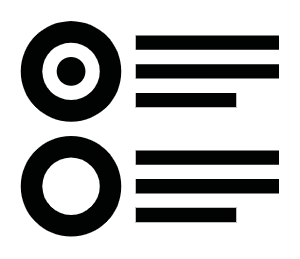
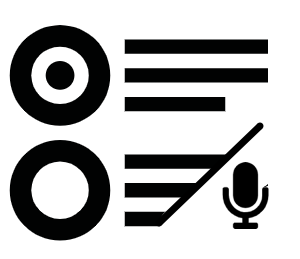
better multiaudio

Changed region(s): [[0.03, 0.4633, 0.93, 0.9575], [0.03, 0.0618, 0.93, 0.4942]]

diff --git a/amd/src/multiaudio.js b/amd/src/multiaudio.js
@@ -57,8 +57,13 @@ define(['jquery', 'core/log', 'mod_minilesson/definitions', 'mod_minilesson/poll
               theplayer.attr('src', $(this).attr('data-src'));
               theplayer[0].play();
               theplayer[0].onended = function() {
+                  $(el).find(".minilesson_mc_playstate").removeClass("fa-spin fa-spinner").addClass("fa-play");
                   self.playing = false;
               };
+              $(el).find(".minilesson_mc_playstate").removeClass("fa-play").addClass("fa-spin fa-spinner");
+          }else{
+              theplayer[0].pause();
+              theplayer[0].currentTime=0;
           }
 
           //get selected item index
@@ -71,7 +76,7 @@ define(['jquery', 'core/log', 'mod_minilesson/definitions', 'mod_minilesson/poll
     prepare_audio: function(itemdata) {
          // debugger;
           $.each(itemdata.sentences, function(index, sentence) {
-              polly.fetch_polly_url(sentence.displaysentence, itemdata.voiceoption, itemdata.usevoice).then(function(audiourl) {
+              polly.fetch_polly_url(sentence.sentence, itemdata.voiceoption, itemdata.usevoice).then(function(audiourl) {
                   $("#" + itemdata.uniqueid + "_option" + (index+1)).attr("data-src", audiourl);
               });
           });
@@ -81,6 +86,17 @@ define(['jquery', 'core/log', 'mod_minilesson/definitions', 'mod_minilesson/poll
 
         //disable the answers, cos its answered
         $("#" + itemdata.uniqueid + "_container .minilesson_mc_response").addClass('minilesson_mc_disabled');
+
+        //remove any audio player artifacts
+        $("#" + itemdata.uniqueid + "_container .minilesson_mc_playstate").hide();
+
+        //turn dots into text (if they were dots)
+        if(parseInt(itemdata.show_text)==0) {
+            for (var i = 0; i < itemdata.sentences.length; i++) {
+                var theline = $("#" + itemdata.uniqueid + "_option" + (i + 1));
+                $("#" + itemdata.uniqueid + "_option" + (i + 1) + ' .minilesson_sentence').text(itemdata.sentences[i].sentence);
+            }
+        }
 
         //reveal answers
         $("#" + itemdata.uniqueid + "_container .minilesson_mc_wrong").show();
@@ -99,16 +115,15 @@ define(['jquery', 'core/log', 'mod_minilesson/definitions', 'mod_minilesson/poll
 
     init_components: function(index, itemdata, quizhelper) {
         var app= this;
-        var correcttext = $("#" + itemdata.uniqueid + "_option" + itemdata.correctanswer).text();
-        var allresponses = $("#" + itemdata.uniqueid + "_container .minilesson_mc_response");
+        var correcttext = itemdata.sentences[itemdata.correctanswer-1].sentence;
         var cleanincorrecttexts=[];
-        for(var i=0;i<allresponses.length;i++){
+        for(var i=0;i<itemdata.sentences.length;i++){
             if(i+1==itemdata.correctanswer) {
                 //to make life simple for ourselves we add an empty string entry in incorrecttexts at the correct answer index
                 //NB index of item in DOM is 1 based , so we need to mess with +1's
                 cleanincorrecttexts[i]='';
             }else{
-                cleanincorrecttexts[i]=quizhelper.cleanText(allresponses[i].textContent);
+                cleanincorrecttexts[i]=quizhelper.cleanText(itemdata.sentences[i].sentence);
             }
         }
 

diff --git a/styles.css b/styles.css
@@ -1811,5 +1811,9 @@ div.mod_minilesson_feedback_cont.mod_minilesson_postattempt {
   color: red;
   float: right;
 }
+.minilesson_mc_playstate {
+  color: grey;
+  float: right;
+}
 
 

diff --git a/classes/comprehensiontest.php b/classes/comprehensiontest.php
@@ -232,13 +232,23 @@ class comprehensiontest
                         if (empty($sentence)) {
                             continue;
                         }
-                        //if we have a pipe we are listening for array[0] and displaying array[1]
-                        $sentencebits = explode('|', $sentence);
-                        if (count($sentencebits) > 1) {
-                            $sentence = trim($sentencebits[0]);
-                            $displaysentence = trim($sentencebits[1]);
-                        } else {
-                            $displaysentence = $sentence;
+
+
+                        if($testitem->type==constants::TYPE_MULTIAUDIO){
+                            if($item->{constants::SHOWTEXTPROMPT}==constants::TEXTPROMPT_DOTS){
+                                $displaysentence = $this->dottify_text($sentence);
+                            }else{
+                                $displaysentence = $sentence;
+                            }
+                        }else{
+                            //if we have a pipe we are listening for array[0] and displaying array[1]
+                            $sentencebits = explode('|', $sentence);
+                            if (count($sentencebits) > 1) {
+                                $sentence = trim($sentencebits[0]);
+                                $displaysentence = trim($sentencebits[1]);
+                            } else {
+                                $displaysentence = $sentence;
+                            }
                         }
 
                         //If this is Japanese and a'chat' activity, the display sentence will be read as is
@@ -254,6 +264,7 @@ class comprehensiontest
 
                         $s = new \stdClass();
                         $s->index = $index;
+                        $s->indexplusone = $index + 1;
                         $s->sentence = $sentence;
                         $s->displaysentence = $displaysentence;
                         $s->length = strlen($s->sentence);
@@ -312,6 +323,14 @@ class comprehensiontest
         }
 
         return $testitems;
+    }
+
+    public function dottify_text($rawtext){
+        $re = '/[^\'!"#$%&\\\\\'()\*+,\-\.\/:;<=> ?@\[\\\\\]\^_`{|}~\']/u';
+        $subst = '•';
+
+        $dots = preg_replace($re, $subst, $rawtext);
+        return $dots;
     }
 
     /* called from ajaxhelper to grade test */

diff --git a/classes/local/rsquestion/baseform.php b/classes/local/rsquestion/baseform.php
@@ -250,14 +250,17 @@ abstract class baseform extends \moodleform {
                 $additionalfields, "add", true);
     }
 
-    protected final function add_showtextpromptoptions($name, $label = null) {
+    protected final function add_showtextpromptoptions($name, $label = null, $default=constants::TEXTPROMPT_DOTS) {
         $options = utils::fetch_options_textprompt();
-        return $this->add_dropdown($name,$label,$options);
+        return $this->add_dropdown($name,$label,$options,$default);
     }
 
-    protected final function add_dropdown($name, $label = null,$options) {
+    protected final function add_dropdown($name, $label = null,$options, $default=false) {
 
         $this->_form->addElement('select', $name, $label, $options);
+        if($default!==false) {
+            $this->_form->setDefault($name, $default);
+        }
 
     }
 

diff --git a/classes/local/rsquestion/multiaudioform.php b/classes/local/rsquestion/multiaudioform.php
@@ -16,8 +16,9 @@ class multiaudioform extends baseform
     public $type = constants::TYPE_MULTIAUDIO;
 
     public function custom_definition() {
-        $this->add_voiceselect(constants::POLLYVOICE,get_string('choosevoice',constants::M_COMPONENT));
+        $this->add_voiceselect(constants::POLLYVOICE,get_string('choosemultiaudiovoice',constants::M_COMPONENT));
         $this->add_voiceoptions(constants::POLLYOPTION,get_string('choosevoiceoption',constants::M_COMPONENT));
+        $this->add_showtextpromptoptions(constants::SHOWTEXTPROMPT,get_string('showoptionsastext',constants::M_COMPONENT),constants::TEXTPROMPT_WORDS);
         $this->add_correctanswer();
         $this->add_textboxresponse(1,'answer1',true);
         $this->add_textboxresponse(2,'answer2',true);

diff --git a/classes/output/rsquestion_renderer.php b/classes/output/rsquestion_renderer.php
@@ -45,10 +45,10 @@ class rsquestion_renderer extends \plugin_renderer_base {
 
         $qtypes = [constants::TYPE_PAGE,constants::TYPE_MULTICHOICE, constants::TYPE_DICTATIONCHAT,
                 constants::TYPE_DICTATION,constants::TYPE_SPEECHCARDS, constants::TYPE_LISTENREPEAT];
+        $qtypes[]= constants::TYPE_MULTIAUDIO;
         if(isset($CFG->minilesson_experimental) &&$CFG->minilesson_experimental){
            $qtypes[]=constants::TYPE_TEACHERTOOLS;
            $qtypes[]=constants::TYPE_SHORTANSWER;
-           $qtypes[]= constants::TYPE_MULTIAUDIO;
         }
         foreach($qtypes as $qtype){
             $url=

diff --git a/lang/en/minilesson.php b/lang/en/minilesson.php
@@ -403,8 +403,10 @@ $string['lr_instructions1'] = 'Listen and respond to the sentences you hear';
 $string['lr_instructions2'] = 'Click \'Start\' to begin!';
 
 $string['choosevoice'] = "Choose the prompt speaker's voice";
+$string['choosemultiaudiovoice'] = "Choose the answer reader's voice";
+$string['showoptionsastext'] = 'Show answers as text';
 $string['showtextprompt'] = 'Show text prompt';
-$string['textprompt_words'] = 'Show full text prompt';
+$string['textprompt_words'] = 'Show full text';
 $string['textprompt_dots'] = 'Show dots instead of letters';
 
 $string['gradenow']= 'Grade Now';
